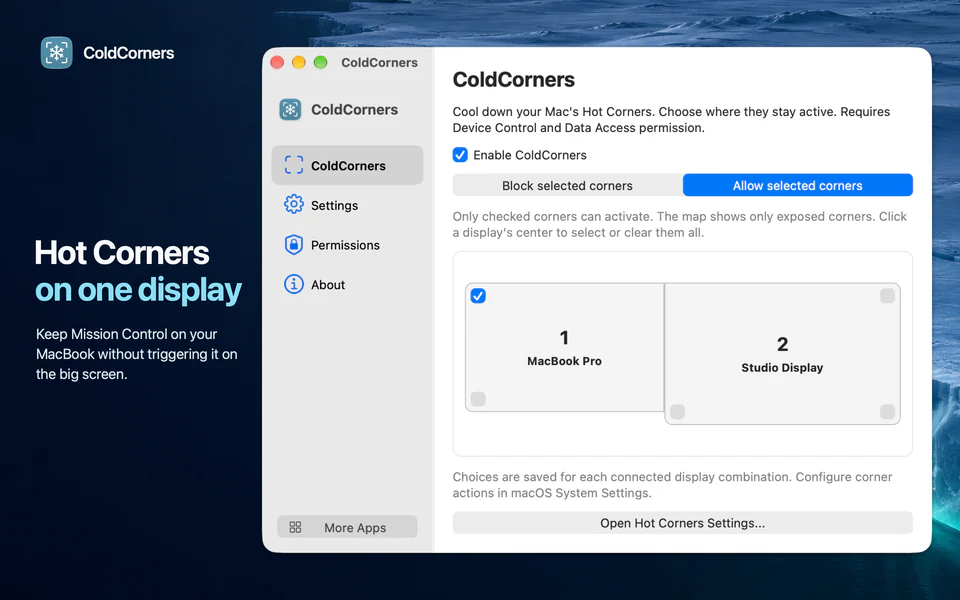
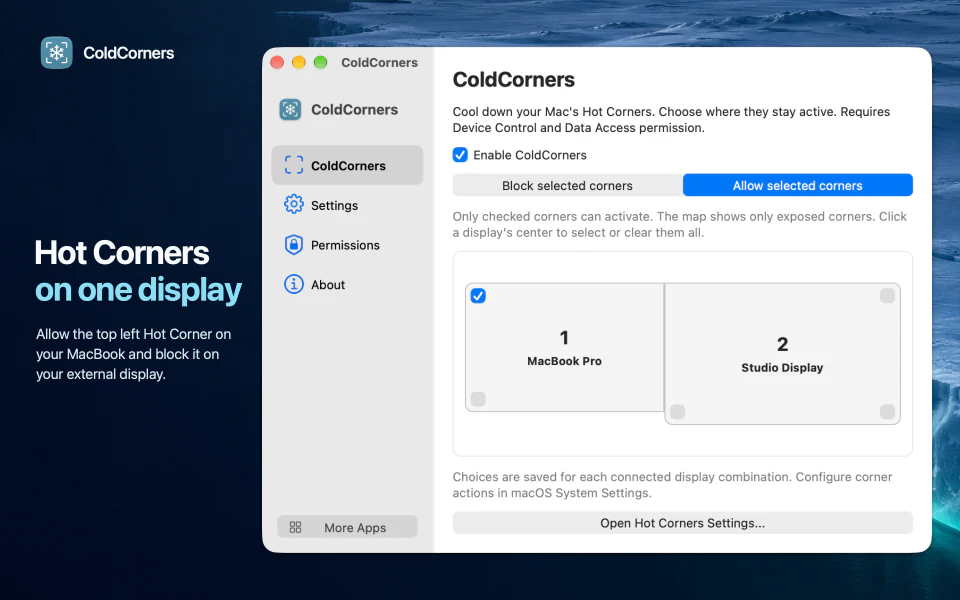
Clarify Hot Corner actions and link to the developer

Changed region(s): [[0.0312, 0.54, 0.25, 0.63]]

diff --git a/src/screenshots.ts b/src/screenshots.ts
@@ -3,7 +3,7 @@ export const screenshots = [
     id: 'display-map',
     label: 'Display map',
     hint: 'Choose corners by display',
-    description: 'Keep Mission Control on your MacBook and leave the presentation display quiet. In "Allow selected corners" mode, only the corners you check can activate.',
+    description: 'In "Allow selected corners" mode, only checked Hot Corners can trigger their assigned actions. Here, the top left Hot Corner is active on the MacBook Pro and all Hot Corners are blocked on the Studio Display.',
     alt: 'The display map shows the top left corner checked on the MacBook Pro and no corners checked on the Studio Display.',
   },
   {
